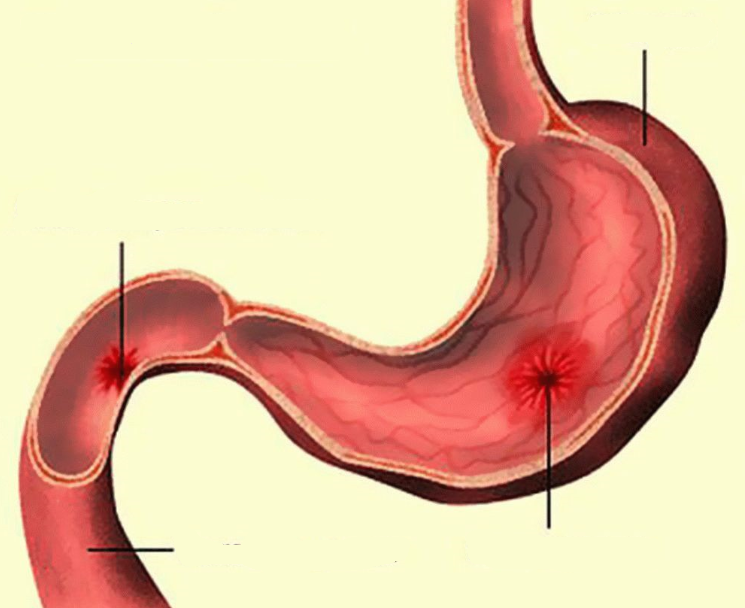
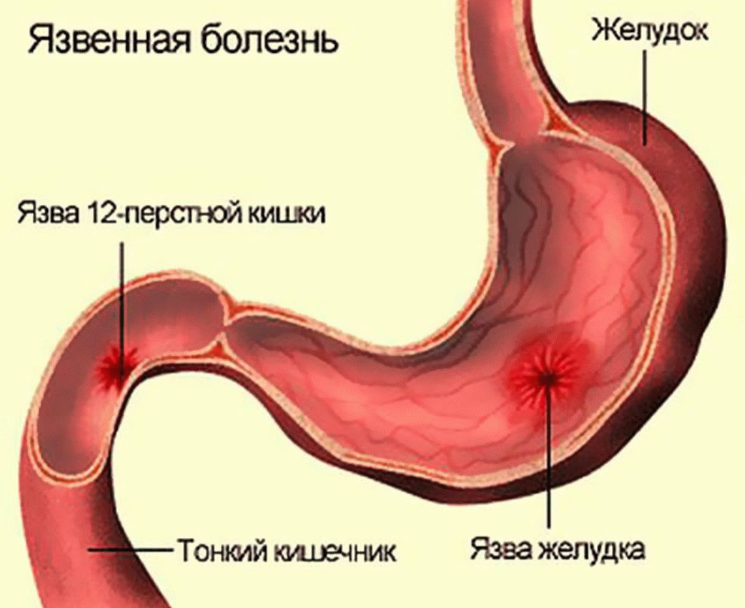
update

diff --git a/mx-p87-cardiofort-form--blog/index.html b/mx-p87-cardiofort-form--blog/index.html
@@ -4,7 +4,7 @@
 <head>
   <meta http-equiv="Content-Type" content="text/html; charset=UTF-8">
   <meta name="viewport" content="width=device-width, initial-scale=1">
-  <title>El cardiólogo explica cómo bajar la presión arterial y prolongar la vida</title>
+  <title>Calma Stom</title>
   <link rel="shortcut icon" href="images/med.png" type="image/png">
   <link href="css/index.css" rel="stylesheet">
   <link href="css/rwd.css" rel="stylesheet">
@@ -100,10 +100,10 @@
           </p>
           <h3 style="margin-bottom: 20px;"> Вера в традиционную медицину - потеряна! Идем дальше...</h3>
           <div class="box">
-            <span class="box-text--main">
+            <!-- <span class="box-text--main">
               Язвенная болезнь
-            </span>
-            <span class="box-text--item-1">
+            </span> -->
+            <!-- <span class="box-text--item-1">
               Язва 12-перстной кишки
             </span>
             <span class="box-text--item-2">
@@ -114,7 +114,7 @@
             </span>
             <span class="box-text--item-4">
               Желудок
-            </span>
+            </span> -->
             <img src="images/item-2.png" class="img2">
           </div>
           <p>
@@ -439,8 +439,8 @@
           </a>
           <a href="#order_form">
             <article>
-              <img src="images/sidebar_img10.jpg" style="width: 68px; height: 68px;">
-              <p> Как я выучила итальянский язык</p>
+              <img src="images/post-8.png" style="width: 68px; height: 68px;">
+              <p> Аллергия может передаваться по наследству</p>
             </article>
           </a>
           <a href="#order_form">

diff --git a/mx-p87-cardiofort-form--blog/css/index.css b/mx-p87-cardiofort-form--blog/css/index.css
@@ -326,7 +326,7 @@ header ul li a {
 }
 
 .sidebar .banner img{
-  max-width: 150px;
+  max-width: 100px;
   margin-top: 30px;
 }
 
